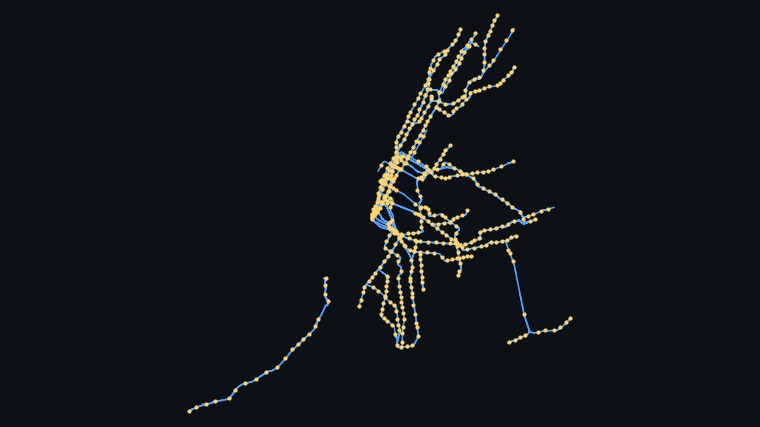
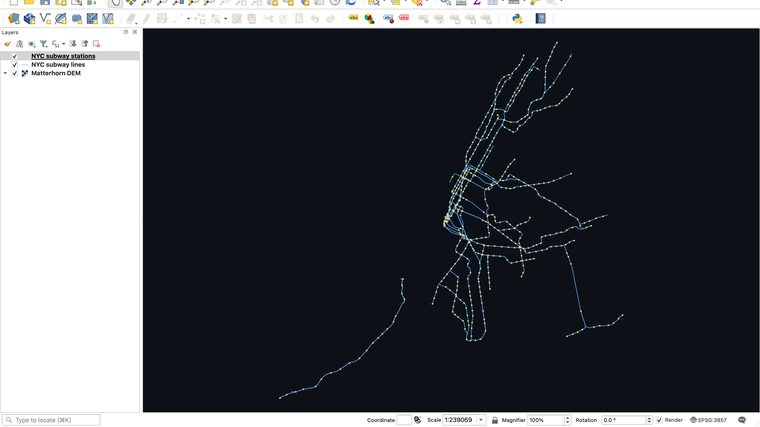
docs(qgis): add real QGIS 4.2 screenshots of the connection dialog, collection list and project

diff --git a/qgis/README.md b/qgis/README.md
@@ -5,12 +5,13 @@ reads all of those without a plugin. This walkthrough adds the public demo to QG
 analyst would: connect, find data in the catalog, add layers, then point the same steps at a
 private instance. Everything below runs anonymously.
 
-Verified against QGIS 4.2.1 (Belém do Pará) on macOS. The dialog names come from the QGIS 4.2.1
-source. The provider behaviour (which URLs QGIS requests, what it does with a filter, whether a
+Verified against QGIS 4.2.1 (Belém do Pará) on macOS. The screenshots are QGIS 4.2.1 itself,
+opened on a clean profile with the project below and driven by a startup script rather than a
+mouse. The provider behaviour (which URLs QGIS requests, what it does with a filter, whether a
 header reaches the server) comes from running the bundled PyQGIS headless against the demo.
-[`verify.py`](verify.py) is that check, and it rendered the screenshot.
+[`verify.py`](verify.py) is that check.
 
-![NYC subway stations and lines rendered by QGIS from the GeoLens demo](../assets/qgis-features.jpg)
+![QGIS 4.2 with the NYC subway stations and lines from the GeoLens demo in the Layers panel and on the map](../assets/qgis-window.jpg)
 
 The shortcut: open [`geolens-demo.qgz`](geolens-demo.qgz). It holds the three layers below,
 styled, with the map on New York. Read on for how they got there.
@@ -26,6 +27,8 @@ Layer ▸ Add Layer ▸ Add WFS / OGC API - Features Layer… opens the Data Sou
 | URL | `https://demo.getgeolens.com/api/` |
 | Version | `OGC API - Features` |
 
+![Create a New WFS Connection, filled in for the GeoLens demo with Version set to OGC API - Features](../assets/qgis-new-connection.jpg)
+
 Leave the rest alone and press OK. Keep the trailing slash on the URL. GeoLens answers a bare
 `/api` with a redirect to a port QGIS cannot reach, so instead of a collection list you get an
 error box. QGIS's own tooltip on the URL box warns that some OGC API servers need the slash; this
@@ -34,7 +37,10 @@ GetCapabilities first, fails, and falls back to the landing page. Picking `OGC A
 skips the failed probe.
 
 Press **Connect**. The table fills with every collection the demo publishes, thirty at the time
-of writing, titled the way the catalog titles them. Select *NYC Subway Stations (MTA)* and
+of writing, titled the way the catalog titles them.
+
+![The connection dialog after Connect: the demo's collections listed by title, name and abstract, including the GeoLens Dataset Catalog](../assets/qgis-collections.jpg)
+ Select *NYC Subway Stations (MTA)* and
 *NYC Subway Lines (MTA)*, and press **Add**. They land in the project as `MultiPoint` and
 `MultiLineString` layers in `OGC:CRS84`, and QGIS reprojects them into whatever the project CRS is.
 
